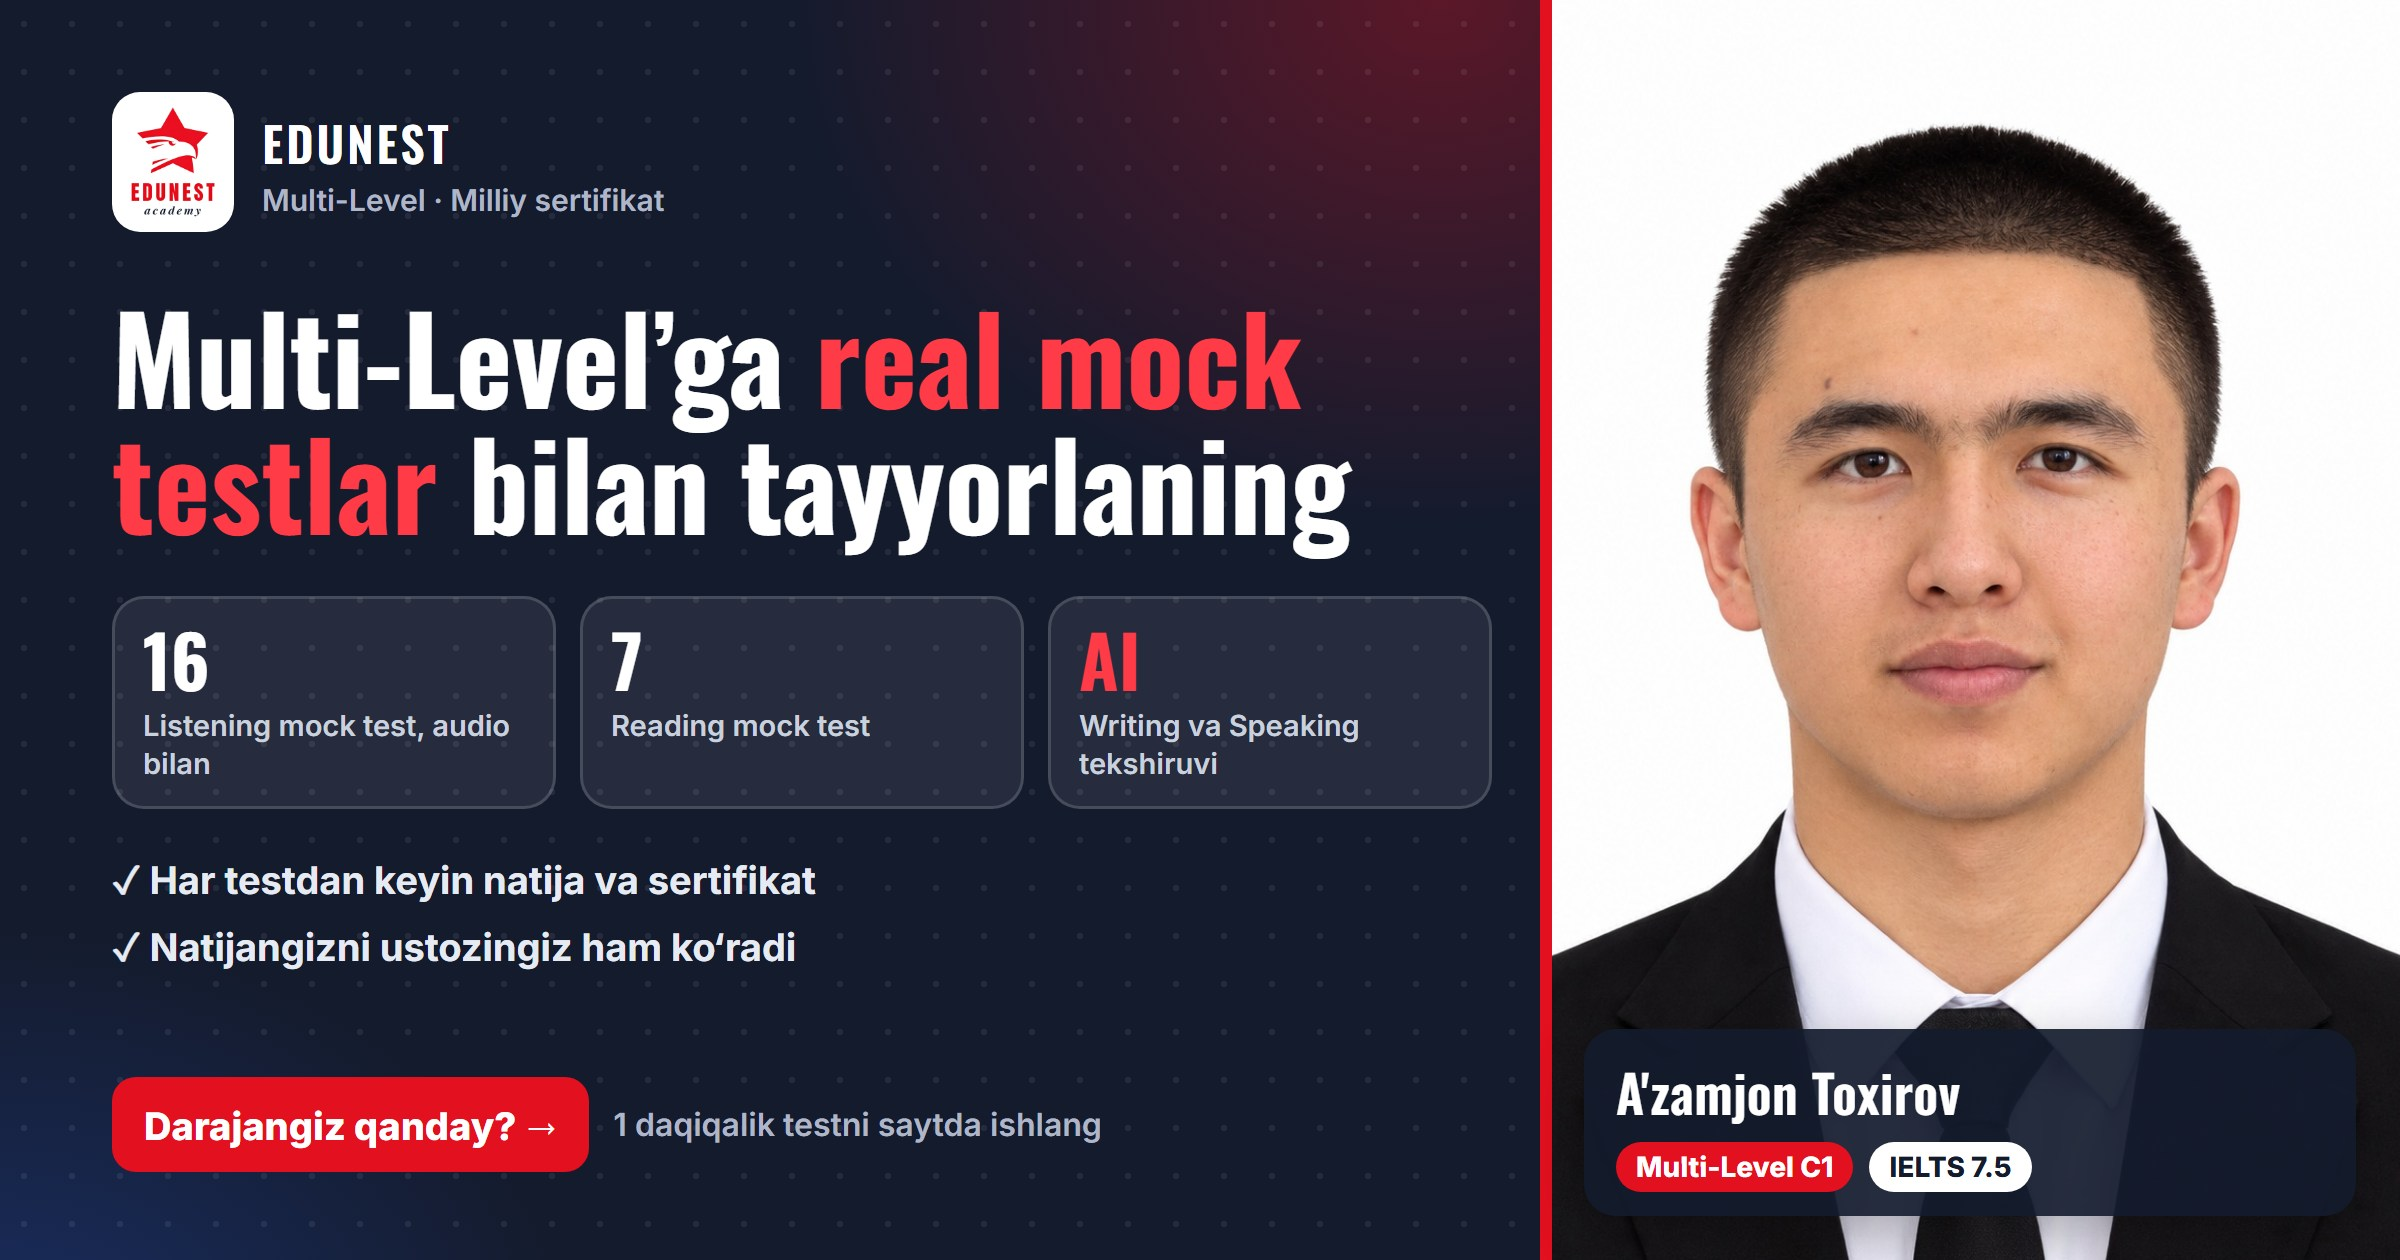
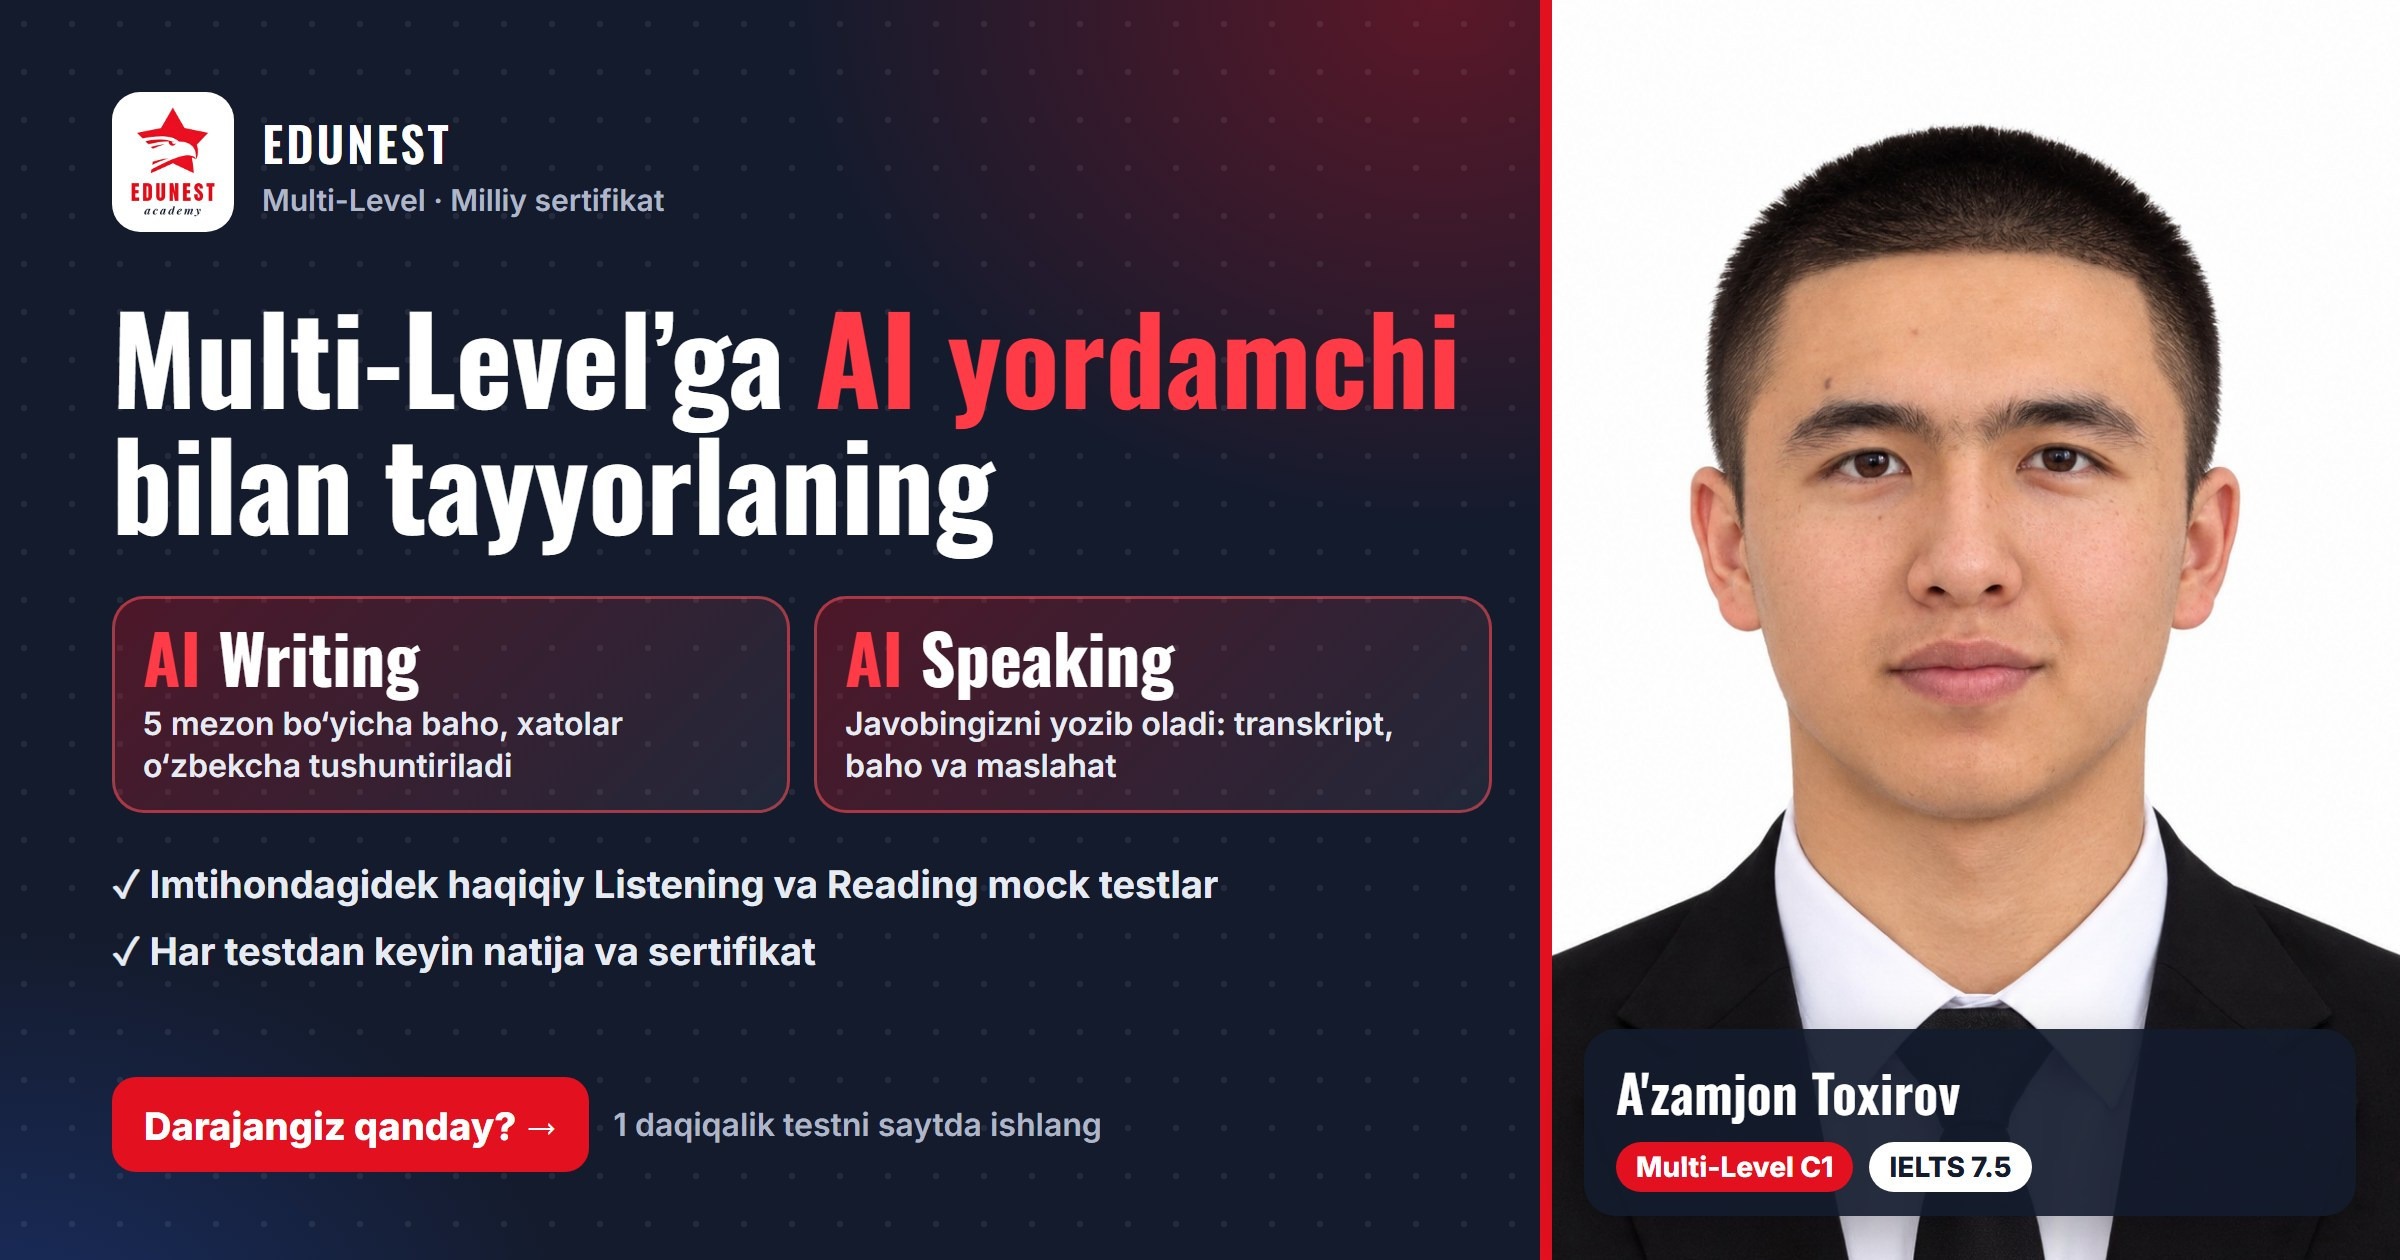
Add files via upload

Changed region(s): [[0.0312, 0.2476, 0.625, 0.65], [0.0312, 0.681, 0.5, 0.7119], [0.0312, 0.7429, 0.3438, 0.7738]]

diff --git a/index.html b/index.html
@@ -3,7 +3,7 @@
 <head>
 <meta charset="UTF-8">
 <meta name="viewport" content="width=device-width, initial-scale=1, viewport-fit=cover">
-<title>EDUNEST · Multi-Level</title><meta name="description" content="Darajangiz qanday? 1 daqiqalik testni ishlab ko‘ring. 16 ta Listening va 7 ta Reading mock test, Writing va Speaking uchun AI tekshiruv. Har testdan keyin natija va sertifikat."><meta property="og:site_name" content="EDUNEST Academy"><meta property="og:title" content="A'zamjon Toxirov bilan Multi-Level’ga tayyorlaning"><meta property="og:description" content="Darajangiz qanday? 1 daqiqalik testni ishlab ko‘ring. 16 ta Listening va 7 ta Reading mock test, Writing va Speaking uchun AI tekshiruv. Har testdan keyin natija va sertifikat."><meta property="og:url" content="https://toxirovteacher.github.io/edunest-multilevel/"><meta property="og:image" content="https://toxirovteacher.github.io/edunest-multilevel/og-preview.jpg"><meta property="og:image:type" content="image/jpeg"><meta property="og:image:width" content="2400"><meta property="og:image:height" content="1260"><meta property="og:image:alt" content="A'zamjon Toxirov · EDUNEST Multi-Level"><meta name="twitter:card" content="summary_large_image"><meta property="og:type" content="website">
+<title>EDUNEST · Multi-Level</title><meta name="description" content="AI yordamchi Writing’ingizni 5 mezon bo‘yicha baholab, xatolarni o‘zbekcha tushuntiradi; Speaking javobingizni yozib olib, transkript, baho va maslahat beradi. Imtihondagidek haqiqiy Listening va Reading mock testlar. Darajangiz qanday? 1 daqiqada bilib oling."><meta property="og:site_name" content="EDUNEST Academy"><meta property="og:title" content="Multi-Level’ga AI yordamchi bilan tayyorlaning · A'zamjon Toxirov"><meta property="og:description" content="AI yordamchi Writing’ingizni 5 mezon bo‘yicha baholab, xatolarni o‘zbekcha tushuntiradi; Speaking javobingizni yozib olib, transkript, baho va maslahat beradi. Imtihondagidek haqiqiy Listening va Reading mock testlar. Darajangiz qanday? 1 daqiqada bilib oling."><meta property="og:url" content="https://toxirovteacher.github.io/edunest-multilevel/"><meta property="og:image" content="https://toxirovteacher.github.io/edunest-multilevel/og-preview.jpg?v=2"><meta property="og:image:type" content="image/jpeg"><meta property="og:image:width" content="2400"><meta property="og:image:height" content="1260"><meta property="og:image:alt" content="A'zamjon Toxirov · EDUNEST Multi-Level"><meta name="twitter:card" content="summary_large_image"><meta property="og:type" content="website">
 <link rel="icon" id="fav">
 <link rel="preconnect" href="https://fonts.googleapis.com"><link rel="preconnect" href="https://fonts.gstatic.com" crossorigin><link rel="preload" as="style" href="https://fonts.googleapis.com/css2?family=Onest:wght@400;500;600;700;800&family=Oswald:wght@500;600;700&family=Inter:wght@400;500;600;700;800&family=Source+Serif+4:opsz,wght@8..60,400;8..60,600&display=swap"><link href="https://fonts.googleapis.com/css2?family=Onest:wght@400;500;600;700;800&family=Oswald:wght@500;600;700&family=Inter:wght@400;500;600;700;800&family=Source+Serif+4:opsz,wght@8..60,400;8..60,600&display=swap" rel="stylesheet" media="print" onload="this.media='all'"><noscript><link href="https://fonts.googleapis.com/css2?family=Onest:wght@400;500;600;700;800&family=Oswald:wght@500;600;700&family=Inter:wght@400;500;600;700;800&family=Source+Serif+4:opsz,wght@8..60,400;8..60,600&display=swap" rel="stylesheet"></noscript><link rel="prefetch" href="mashq.html"><link rel="prefetch" href="css/mashq.css?v=7b8788258f"><link rel="prefetch" href="js/mashq.js?v=2a25ce5a47">
 <link rel="stylesheet" href="css/app.css?v=52934552df">
